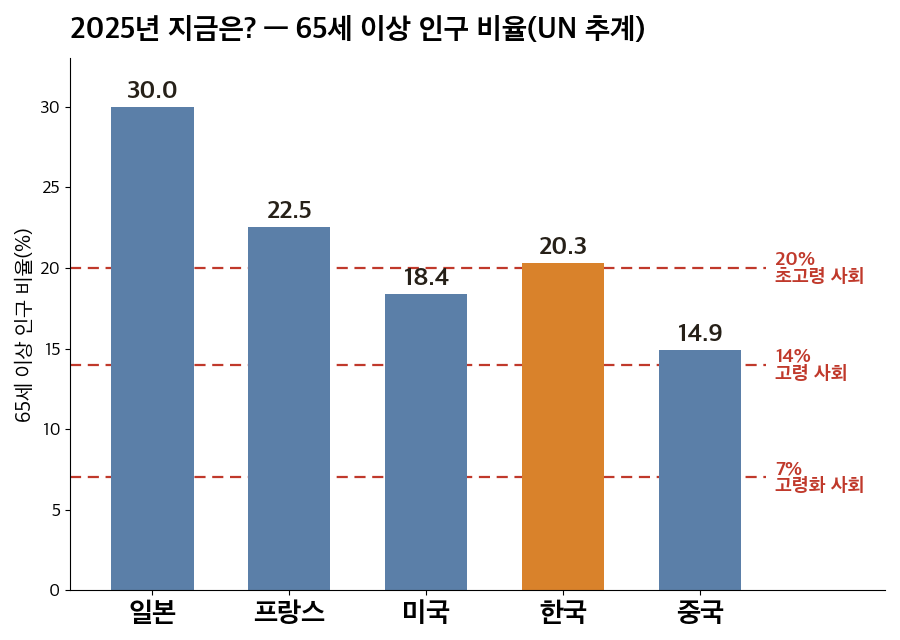
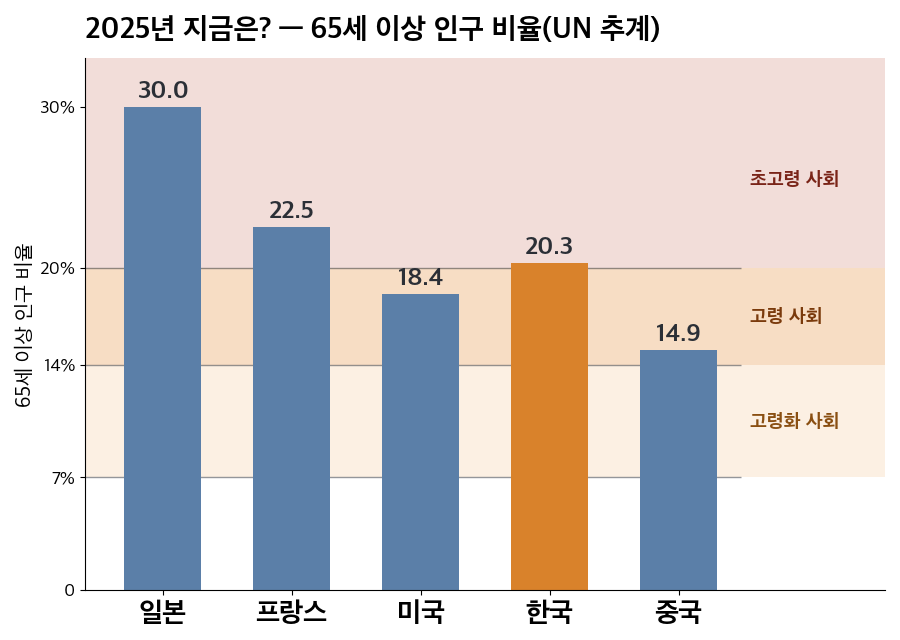
사회② 7-5: 아티팩트 댓글 반영 — 연령 구성 2단 도식·입담 삽화+그래프 색 맞춤·단계 고르기 «좁게»·3단계 프랑스 연금 개혁 해설+2023 파리 사진·4단계 질문 합침 · worksheet-gen opt-in «좁게»(블록 안 CSS, 사회 7-3·역사 4-3-2 출력 불변) · 메인 🔴0·역사 🔴0 · data-id·answer·label 불변
Claude-Session: https://claude.ai/code/session_0112jfuNjXUAgEuhZG5Yg8vB

diff --git a/worksheets/7-5차시_선진국의인구문제_개념편.html b/worksheets/7-5차시_선진국의인구문제_개념편.html
@@ -1171,7 +1171,7 @@ table:has(.ox-group) td:first-child { width: 46px; text-align: center; color: #6
 <figure class="ws-fig"><a class="ws-fig-zoom" href="images/7-5_card_cover_v2.png" target="_blank" rel="noopener" title="눌러서 크게 보기"><img src="images/7-5_card_cover_v2.png" alt="먼저 위 칸에 내 답을 쓰고, 그다음 넘겨 보자" loading="lazy"></a><figcaption>먼저 위 칸에 내 답을 쓰고, 그다음 넘겨 보자</figcaption></figure>
 </section><section class="ws-sw-pane" data-i="1" hidden><h3 class="ws-sw-h">열 명 가운데 셋 가까이</h3>
 <figure class="ws-fig"><a class="ws-fig-zoom" href="images/7-5_card_296_v2.png" target="_blank" rel="noopener" title="눌러서 크게 보기"><img src="images/7-5_card_296_v2.png" alt="일본 홋카이도 삿포로의 거리 — 지팡이를 짚은 노인(2026년 9월, 일본 65세 이상 29.6%)" loading="lazy"></a><figcaption>일본 홋카이도 삿포로의 거리 — 지팡이를 짚은 노인(2026년 9월, 일본 65세 이상 29.6%)</figcaption></figure>
-<p>교과서는 2015년 일본의 65세 이상 인구가 '네 명 가운데 한 명'이라고 적었다. 2026년 9월에는 그 비율이 29.6%까지 올랐다. 가게 진열대도 바뀌었다 — 일본에서는 2012년 무렵 어른용 기저귀가 아기용 기저귀보다 더 많이 팔리기 시작했다.</p>
+<p>교과서는 2015년 일본의 65세 이상 인구가 '네 명 가운데 한 명'이라고 적었다. 일본 정부(총무성) 집계로는 2026년 9월에 그 비율이 29.6%까지 올랐다. 가게 진열대도 바뀌었다 — 일본에서는 2012년 무렵 어른용 기저귀가 아기용 기저귀보다 더 많이 팔리기 시작했다.</p>
 </section><section class="ws-sw-pane" data-i="2" hidden><h3 class="ws-sw-h">트럭은 어디를 돌까</h3>
 <figure class="ws-fig"><a class="ws-fig-zoom" href="images/7-5_map_niigata_v2.png" target="_blank" rel="noopener" title="눌러서 크게 보기"><img src="images/7-5_map_niigata_v2.png" alt="니가타현 미나미우오누마의 산골 마을" loading="lazy"></a><figcaption>니가타현 미나미우오누마의 산골 마을</figcaption></figure>
 <blockquote>🎙 표지 사진의 트럭은 니가타현 산골에서 평일마다 마을 열아홉 곳을 돌아. 가장 가까운 가게까지 차로 가야 하는데 운전을 그만둔 노인이 많으니, 가게가 사람을 찾아가는 거야.</blockquote>
@@ -1188,13 +1188,19 @@ table:has(.ox-group) td:first-child { width: 46px; text-align: center; color: #6
 <figure class="ws-fig"><a class="ws-fig-zoom" href="images/7-5_fig_support.png" target="_blank" rel="noopener" title="눌러서 크게 보기"><img src="images/7-5_fig_support.png" alt="노인 한 명을 받치는 일하는 나이(15~64세) 사람 수 — 일본·한국, 1990년과 2025년" loading="lazy"></a><figcaption>노인 한 명을 받치는 일하는 나이(15~64세) 사람 수 — 일본·한국, 1990년과 2025년</figcaption></figure>
 </div></div>
 <br>
+<div class="ws-2c c2-mid" style="grid-template-columns:minmax(0,1.0fr) minmax(0,1.1fr)"><div class="c2-a">
 <div class="ws-read"><div class="ws-read-tag">읽고 넘어가는 곳</div><p>Ⅴ단원에서 일할 뜻과 능력이 있는 사람을 '경제 활동 인구'라고 배웠다. 저출산·고령화는 이 '일하는 사람'의 몫은 줄이고 '돌봄을 받는 사람'의 몫은 늘린다.</p><p>그래서 같은 나라 안에서 일하는 한 사람이 돌봐야 할 사람이 점점 많아진다.</p></div>
+</div><div class="c2-b">
+<figure class="ws-fig"><a class="ws-fig-zoom" href="images/7-5_fig_agemix.png" target="_blank" rel="noopener" title="눌러서 크게 보기"><img src="images/7-5_fig_agemix.png" alt="일할 나이(15~64세) 사람의 몫 — 일본·한국, 그 몫이 가장 컸던 해와 2025년 (세계은행 자료 · 2025년은 UN 추계)" loading="lazy"></a><figcaption>일할 나이(15~64세) 사람의 몫 — 일본·한국, 그 몫이 가장 컸던 해와 2025년 (세계은행 자료 · 2025년은 UN 추계)</figcaption></figure>
+</div></div>
 <br>
 <figure class="ws-fig"><a class="ws-fig-zoom" href="images/7-5_graph_stages.png" target="_blank" rel="noopener" title="눌러서 크게 보기"><img src="images/7-5_graph_stages.png" alt="고령화의 세 단계 — 65세 이상 인구가 전체의 7% 이상이면 고령화 사회, 14% 이상이면 고령 사회, 20% 이상이면 초고령 사회다 (교과서 136쪽 날개)" loading="lazy"></a><figcaption>고령화의 세 단계 — 65세 이상 인구가 전체의 7% 이상이면 고령화 사회, 14% 이상이면 고령 사회, 20% 이상이면 초고령 사회다 (교과서 136쪽 날개)</figcaption></figure>
 <br>
-<div class="ws-pick" id="pk44"><div class="pk-head"><span>교과서 136쪽 그래프의 2015년 값이다. 위 기준으로 각 나라가 어느 단계였는지 골라 보자.</span><b class="pk-count">0 / 5</b></div><div class="pk-grid pk-gold"><div class="pk-card pk-noimg" data-i="0" data-ans="초고령 사회"><div class="pk-name">일본</div><div class="pk-sit">65세 이상 26.3%</div><div class="pk-btns pk-btns-col"><button type="button" class="pk-b" data-v="고령화 사회">고령화 사회</button><button type="button" class="pk-b" data-v="고령 사회">고령 사회</button><button type="button" class="pk-b" data-v="초고령 사회">초고령 사회</button></div><div class="pk-why" hidden>20%를 넘었다 — 세계에서 가장 먼저 이 단계에 들어선 나라다</div></div><div class="pk-card pk-noimg" data-i="1" data-ans="고령 사회"><div class="pk-name">프랑스</div><div class="pk-sit">65세 이상 19.1%</div><div class="pk-btns pk-btns-col"><button type="button" class="pk-b" data-v="고령화 사회">고령화 사회</button><button type="button" class="pk-b" data-v="고령 사회">고령 사회</button><button type="button" class="pk-b" data-v="초고령 사회">초고령 사회</button></div><div class="pk-why" hidden>14% 이상, 20% 미만이다</div></div><div class="pk-card pk-noimg" data-i="2" data-ans="고령 사회"><div class="pk-name">미국</div><div class="pk-sit">65세 이상 14.8%</div><div class="pk-btns pk-btns-col"><button type="button" class="pk-b" data-v="고령화 사회">고령화 사회</button><button type="button" class="pk-b" data-v="고령 사회">고령 사회</button><button type="button" class="pk-b" data-v="초고령 사회">초고령 사회</button></div><div class="pk-why" hidden>14%를 막 넘었다</div></div><div class="pk-card pk-noimg" data-i="3" data-ans="고령화 사회"><div class="pk-name">한국</div><div class="pk-sit">65세 이상 13.1%</div><div class="pk-btns pk-btns-col"><button type="button" class="pk-b" data-v="고령화 사회">고령화 사회</button><button type="button" class="pk-b" data-v="고령 사회">고령 사회</button><button type="button" class="pk-b" data-v="초고령 사회">초고령 사회</button></div><div class="pk-why" hidden>7% 이상, 14% 미만이다</div></div><div class="pk-card pk-noimg" data-i="4" data-ans="고령화 사회"><div class="pk-name">중국</div><div class="pk-sit">65세 이상 9.6%</div><div class="pk-btns pk-btns-col"><button type="button" class="pk-b" data-v="고령화 사회">고령화 사회</button><button type="button" class="pk-b" data-v="고령 사회">고령 사회</button><button type="button" class="pk-b" data-v="초고령 사회">초고령 사회</button></div><div class="pk-why" hidden>7% 이상, 14% 미만이다</div></div></div><div class="pk-result" hidden></div></div><script>(function(){var w=document.getElementById("pk44");var cs=[].slice.call(w.querySelectorAll(".pk-card")),N=cs.length;var OPTS=["고령화 사회", "고령 사회", "초고령 사회"],MOOD=false,OPEN=false;function done(){return cs.filter(function(c){return c.dataset.pick}).length}function reveal(){var ok=0;cs.forEach(function(c){var right=c.dataset.pick===c.dataset.ans;if(right)ok++;c.classList.add(right?"pk-ok":"pk-no");if(!right&&MOOD){c.classList.remove("pk-happy","pk-sad");c.classList.add(c.dataset.ans==="웃음"?"pk-happy":"pk-sad");}if(!right||OPEN)c.querySelector(".pk-why").hidden=false;if(right&&!OPEN&&!c.dataset.tap){c.dataset.tap=1;c.classList.add("pk-tap");c.addEventListener("click",function(e){if(e.target.closest&&e.target.closest(".pk-b"))return;var y=c.querySelector(".pk-why");y.hidden=!y.hidden;});}});var r=w.querySelector(".pk-result");r.hidden=false;r.innerHTML="<b>"+ok+" / "+N+"</b> 맞혔어. "+(OPEN?"모든 카드의 이유가 펼쳐졌어 — 틀린 카드부터 보자.":"틀린 카드는 이유가 먼저 펼쳐졌어 — 거기부터 보자. 맞힌 카드도 누르면 이유가 열려.")+"<div class='pk-sum'>"+OPTS.map(function(o,oi){var head=MOOD?(o==="웃음"?"웃는 사람":"우는 사람"):o;var cls=MOOD?(o==="웃음"?"pk-up":"pk-down"):("pk-c"+oi);return "<div class='pk-col "+cls+"'><b>"+head+"</b>"+cs.filter(function(c){return c.dataset.ans===o}).map(function(c){return "<span>"+c.querySelector(".pk-name").textContent+"</span>"}).join("")+"</div>"}).join("")+"</div>";r.scrollIntoView({block:"nearest",behavior:"smooth"});}cs.forEach(function(c){c.querySelectorAll(".pk-b").forEach(function(b){b.addEventListener("click",function(){if(w.classList.contains("pk-done"))return;c.dataset.pick=b.dataset.v;c.classList.add("pk-set");if(MOOD){c.classList.remove("pk-happy","pk-sad");c.classList.add(b.dataset.v==="웃음"?"pk-happy":"pk-sad");}c.querySelectorAll(".pk-b").forEach(function(x){x.classList.toggle("on",x===b)});w.querySelector(".pk-count").textContent=done()+" / "+N;if(done()===N){w.classList.add("pk-done");reveal();}});});});})();</script>
+<style>/* 2026-10-26 사회 7-5 «좁게» — 그림 없는 짧은 카드. 데스크톱은 한 줄에 다 놓고, 폰은 «이름·값 | 버튼» 한 줄씩 */ .pk-grid.pk-tight { grid-template-columns: repeat(auto-fit, minmax(118px, 1fr)); gap: 8px; } .pk-tight .pk-card { padding: 8px 6px; } .pk-tight .pk-sit { min-height: 0; margin: 2px 0 7px; } .pk-tight .pk-b { padding: 5px 1px; word-break: keep-all; line-height: 1.25; font-size: .74em; } .pk-tight .pk-btns { gap: 3px; } @media (max-width: 640px) {   .pk-grid.pk-tight { grid-template-columns: 1fr; gap: 6px; }   .pk-tight .pk-card { display: grid; grid-template-columns: minmax(0, 1fr) minmax(0, 1.25fr); column-gap: 10px; align-items: center; text-align: left; padding: 7px 10px; }   .pk-tight .pk-name, .pk-tight .pk-sit { grid-column: 1; margin: 0; }   .pk-tight .pk-btns { grid-column: 2; grid-row: 1 / span 2; }   .pk-tight .pk-why { grid-column: 1 / -1; } }</style>
+<div class="ws-pick" id="pk48"><div class="pk-head"><span>교과서 136쪽 그래프의 2015년 값이다. 위 기준으로 각 나라가 어느 단계였는지 골라 보자.</span><b class="pk-count">0 / 5</b></div><div class="pk-grid pk-tight"><div class="pk-card pk-noimg" data-i="0" data-ans="초고령 사회"><div class="pk-name">일본</div><div class="pk-sit">65세 이상 26.3%</div><div class="pk-btns"><button type="button" class="pk-b" data-v="고령화 사회">고령화 사회</button><button type="button" class="pk-b" data-v="고령 사회">고령 사회</button><button type="button" class="pk-b" data-v="초고령 사회">초고령 사회</button></div><div class="pk-why" hidden>20%를 넘었다 — 세계에서 가장 먼저 이 단계에 들어선 나라다</div></div><div class="pk-card pk-noimg" data-i="1" data-ans="고령 사회"><div class="pk-name">프랑스</div><div class="pk-sit">65세 이상 19.1%</div><div class="pk-btns"><button type="button" class="pk-b" data-v="고령화 사회">고령화 사회</button><button type="button" class="pk-b" data-v="고령 사회">고령 사회</button><button type="button" class="pk-b" data-v="초고령 사회">초고령 사회</button></div><div class="pk-why" hidden>14% 이상, 20% 미만이다</div></div><div class="pk-card pk-noimg" data-i="2" data-ans="고령 사회"><div class="pk-name">미국</div><div class="pk-sit">65세 이상 14.8%</div><div class="pk-btns"><button type="button" class="pk-b" data-v="고령화 사회">고령화 사회</button><button type="button" class="pk-b" data-v="고령 사회">고령 사회</button><button type="button" class="pk-b" data-v="초고령 사회">초고령 사회</button></div><div class="pk-why" hidden>14%를 막 넘었다</div></div><div class="pk-card pk-noimg" data-i="3" data-ans="고령화 사회"><div class="pk-name">한국</div><div class="pk-sit">65세 이상 13.1%</div><div class="pk-btns"><button type="button" class="pk-b" data-v="고령화 사회">고령화 사회</button><button type="button" class="pk-b" data-v="고령 사회">고령 사회</button><button type="button" class="pk-b" data-v="초고령 사회">초고령 사회</button></div><div class="pk-why" hidden>7% 이상, 14% 미만이다</div></div><div class="pk-card pk-noimg" data-i="4" data-ans="고령화 사회"><div class="pk-name">중국</div><div class="pk-sit">65세 이상 9.6%</div><div class="pk-btns"><button type="button" class="pk-b" data-v="고령화 사회">고령화 사회</button><button type="button" class="pk-b" data-v="고령 사회">고령 사회</button><button type="button" class="pk-b" data-v="초고령 사회">초고령 사회</button></div><div class="pk-why" hidden>7% 이상, 14% 미만이다</div></div></div><div class="pk-result" hidden></div></div><script>(function(){var w=document.getElementById("pk48");var cs=[].slice.call(w.querySelectorAll(".pk-card")),N=cs.length;var OPTS=["고령화 사회", "고령 사회", "초고령 사회"],MOOD=false,OPEN=false;function done(){return cs.filter(function(c){return c.dataset.pick}).length}function reveal(){var ok=0;cs.forEach(function(c){var right=c.dataset.pick===c.dataset.ans;if(right)ok++;c.classList.add(right?"pk-ok":"pk-no");if(!right&&MOOD){c.classList.remove("pk-happy","pk-sad");c.classList.add(c.dataset.ans==="웃음"?"pk-happy":"pk-sad");}if(!right||OPEN)c.querySelector(".pk-why").hidden=false;if(right&&!OPEN&&!c.dataset.tap){c.dataset.tap=1;c.classList.add("pk-tap");c.addEventListener("click",function(e){if(e.target.closest&&e.target.closest(".pk-b"))return;var y=c.querySelector(".pk-why");y.hidden=!y.hidden;});}});var r=w.querySelector(".pk-result");r.hidden=false;r.innerHTML="<b>"+ok+" / "+N+"</b> 맞혔어. "+(OPEN?"모든 카드의 이유가 펼쳐졌어 — 틀린 카드부터 보자.":"틀린 카드는 이유가 먼저 펼쳐졌어 — 거기부터 보자. 맞힌 카드도 누르면 이유가 열려.")+"<div class='pk-sum'>"+OPTS.map(function(o,oi){var head=MOOD?(o==="웃음"?"웃는 사람":"우는 사람"):o;var cls=MOOD?(o==="웃음"?"pk-up":"pk-down"):("pk-c"+oi);return "<div class='pk-col "+cls+"'><b>"+head+"</b>"+cs.filter(function(c){return c.dataset.ans===o}).map(function(c){return "<span>"+c.querySelector(".pk-name").textContent+"</span>"}).join("")+"</div>"}).join("")+"</div>";r.scrollIntoView({block:"nearest",behavior:"smooth"});}cs.forEach(function(c){c.querySelectorAll(".pk-b").forEach(function(b){b.addEventListener("click",function(){if(w.classList.contains("pk-done"))return;c.dataset.pick=b.dataset.v;c.classList.add("pk-set");if(MOOD){c.classList.remove("pk-happy","pk-sad");c.classList.add(b.dataset.v==="웃음"?"pk-happy":"pk-sad");}c.querySelectorAll(".pk-b").forEach(function(x){x.classList.toggle("on",x===b)});w.querySelector(".pk-count").textContent=done()+" / "+N;if(done()===N){w.classList.add("pk-done");reveal();}});});});})();</script>
 <br>
-<div class="ws-2c c2-mid" style="grid-template-columns:minmax(0,1.0fr) minmax(0,1.25fr)"><div class="c2-a">
+<div class="ws-2c c2-mid" style="grid-template-columns:minmax(0,1.0fr) minmax(0,1.0fr)"><div class="c2-a">
+<figure class="ws-fig"><a class="ws-fig-zoom" href="images/7-5_입담_두단계.png" target="_blank" rel="noopener" title="눌러서 크게 보기"><img src="images/7-5_입담_두단계.png" alt="다섯 명 가운데 한 명이 65세 이상 — 한국은 9년 만에 두 단계를 올라갔다" loading="lazy"></a><figcaption>다섯 명 가운데 한 명이 65세 이상 — 한국은 9년 만에 두 단계를 올라갔다</figcaption></figure>
 <blockquote>🎙 2015년의 한국은 맨 아래 단계였어. 그런데 2024년 12월, 우리나라의 65세 이상 인구가 20%를 넘었어. 2017년에 고령 사회를 거쳐, 9년 만에 두 단계를 올라가 초고령 사회가 된 거야. 이 이야기는 7-7에서 이어 간다.</blockquote>
 </div><div class="c2-b">
 <figure class="ws-fig"><a class="ws-fig-zoom" href="images/7-5_graph_aged.png" target="_blank" rel="noopener" title="눌러서 크게 보기"><img src="images/7-5_graph_aged.png" alt="2025년 지금은? — 65세 이상 인구 비율(UN 추계)" loading="lazy"></a><figcaption>2025년 지금은? — 65세 이상 인구 비율(UN 추계)</figcaption></figure>
@@ -1211,11 +1217,17 @@ table:has(.ox-group) td:first-child { width: 46px; text-align: center; color: #6
 <figure class="ws-fig"><a class="ws-fig-zoom" href="images/7-5_photo_forskola.jpg" target="_blank" rel="noopener" title="눌러서 크게 보기"><img src="images/7-5_photo_forskola.jpg" alt="스웨덴의 어린이집 — 공공 보육 시설을 늘리는 것도 대책의 하나다" loading="lazy"></a><figcaption>스웨덴의 어린이집 — 공공 보육 시설을 늘리는 것도 대책의 하나다</figcaption></figure>
 </div></div>
 <br>
+<div class="ws-2c c2-mid" style="grid-template-columns:minmax(0,1.1fr) minmax(0,1.0fr)"><div class="c2-a">
+<div class="ws-read"><div class="ws-read-tag">읽고 넘어가는 곳</div><p>대책에는 돈이 든다. 그 돈을 누가 얼마나 낼지를 두고 갈등이 생기기도 한다. 프랑스는 일하는 사람이 내는 돈으로 노인의 연금을 준다. 그런데 연금을 내는 사람은 줄고 받는 사람은 늘자, 2023년 연금을 받을 수 있는 나이를 62세에서 64세로 늦추는 법을 만들었다.</p><p>몇 달 동안 전국에서 큰 시위와 파업이 이어졌다. 결국 2025년 12월, 나이를 더 올리는 일정을 2028년 1월까지 멈추는 법이 통과됐다.</p></div>
+</div><div class="c2-b">
+<figure class="ws-fig"><a class="ws-fig-zoom" href="images/7-5_photo_paris2023.jpg" target="_blank" rel="noopener" title="눌러서 크게 보기"><img src="images/7-5_photo_paris2023.jpg" alt="2023년 3월 28일 프랑스 파리 레퓌블리크 광장 — 연금 받는 나이를 늦추는 법에 반대하는 행진" loading="lazy"></a><figcaption>2023년 3월 28일 프랑스 파리 레퓌블리크 광장 — 연금 받는 나이를 늦추는 법에 반대하는 행진</figcaption></figure>
+</div></div>
+<br>
 <blockquote>🎙 아기를 더 낳게 하려는 나라가 요즘에만 있었던 건 아니야. 2,000년 전 로마의 아우구스투스 황제는 결혼하지 않은 사람은 물려받을 재산을 제대로 받지 못하게 하고, 아이가 셋 이상인 사람에게는 관직에서 먼저 뽑는 혜택을 줬어. 그런데 그 뒤로 결혼과 출산이 크게 늘지는 않았대.</blockquote>
 <br>
 <div class="ws-tb"><div class="ws-tb-tag">📕 교과서 137쪽 · 스스로 탐구 「선진국의 출산율을 높이기 위한 정책」</div><div class="ws-tb-see">스웨덴과 프랑스의 합계 출산율 그래프와 저출산 대책 표를 보자.</div><div class="ws-tb-ask">두 나라 저출산 대책의 공통된 특징을 한 문장으로 적자. <input type="text" class="blank-input activity-input no-score" data-id="act-2" data-label="교과서 137쪽에서 찾기 — 두 나라 저출산 대책의 공통된 특징을 한 문장으로 적자." style="width:360px" placeholder=""></div></div>
 <br>
-<div class="ws-sw sw-news" id="sw67" data-cur="0"><div class="ws-sw-head">📰 다 채운 뒤에 넘겨 보자 — 교과서 그 뒤, 두 나라의 출산율</div><div class="ws-sw-tabs" role="tablist"><button type="button" role="tab" class="ws-sw-tab on" onclick="swGo('sw67',0)" aria-label="교과서 그 뒤 — 다시 내려갔다">1</button><button type="button" role="tab" class="ws-sw-tab" onclick="swGo('sw67',1)" aria-label="왜 2명이 아니라 2.1명일까">2</button><button type="button" role="tab" class="ws-sw-tab" onclick="swGo('sw67',2)" aria-label="정책은 소용없었을까?">3</button></div><div class="ws-sw-stage">
+<div class="ws-sw sw-news" id="sw79" data-cur="0"><div class="ws-sw-head">📰 다 채운 뒤에 넘겨 보자 — 교과서 그 뒤, 두 나라의 출산율</div><div class="ws-sw-tabs" role="tablist"><button type="button" role="tab" class="ws-sw-tab on" onclick="swGo('sw79',0)" aria-label="교과서 그 뒤 — 다시 내려갔다">1</button><button type="button" role="tab" class="ws-sw-tab" onclick="swGo('sw79',1)" aria-label="왜 2명이 아니라 2.1명일까">2</button><button type="button" role="tab" class="ws-sw-tab" onclick="swGo('sw79',2)" aria-label="정책은 소용없었을까?">3</button></div><div class="ws-sw-stage">
 <section class="ws-sw-pane" data-i="0"><h3 class="ws-sw-h">교과서 그 뒤 — 다시 내려갔다</h3>
 <figure class="ws-fig"><a class="ws-fig-zoom" href="images/7-5_graph_tfr.png" target="_blank" rel="noopener" title="눌러서 크게 보기"><img src="images/7-5_graph_tfr.png" alt="프랑스·스웨덴 합계 출산율 1990~2024년" loading="lazy"></a><figcaption>프랑스·스웨덴 합계 출산율 1990~2024년</figcaption></figure>
 <p>합계 출산율은 여성 한 명이 평생 낳을 것으로 예상되는 아이 수다. 교과서 그래프에서 두 나라는 2015년 무렵 2명 가까이 올랐지만, 지금은 프랑스 1.56명(2025년), 스웨덴 1.43명(2024년)이다.</p>
@@ -1226,20 +1238,18 @@ table:has(.ox-group) td:first-child { width: 46px; text-align: center; color: #6
 <figure class="ws-fig"><a class="ws-fig-zoom" href="images/7-5_card_policy_v2.png" target="_blank" rel="noopener" title="눌러서 크게 보기"><img src="images/7-5_card_policy_v2.png" alt="스웨덴 말뫼 — 유모차를 미는 아빠" loading="lazy"></a><figcaption>스웨덴 말뫼 — 유모차를 미는 아빠</figcaption></figure>
 <blockquote>🎙 교과서가 '정책 덕분에 올랐다'고 소개한 두 나라도 다시 내려갔어. 스웨덴은 2025년에 1.42명으로 더 내려가, 기록이 시작된 뒤 가장 낮아. 그럼 정책은 소용이 없었던 걸까, 아니면 정책만으로는 모자란 걸까? 마지막 칸에서 네 생각을 들어 볼게.</blockquote>
 <p>스웨덴은 이번이 처음도 아니다. 1980년대 출산과 육아를 돕는 정책을 넓힌 뒤 1990년에는 합계 출산율이 2.13명까지 올라 아기가 12만 4천 명 태어났다. 그런데 1990년대 경기가 나빠지자 1999년에는 1.50명, 8만 8천 명으로 내려갔다.</p>
-</section></div><div class="ws-sw-nav"><button type="button" onclick="swStep('sw67',-1)">‹ 이전</button><span class="ws-sw-count"><b>1</b> / 3</span><button type="button" onclick="swStep('sw67',1)">다음 ›</button></div></div><script>(function(){if(!window.swGo){window.swGo=function(id,i){var g=document.getElementById(id);if(!g)return;var ps=g.querySelectorAll(".ws-sw-pane"),n=ps.length;i=((i%n)+n)%n;ps.forEach(function(e){e.hidden=(+e.dataset.i!==i);});g.querySelectorAll(".ws-sw-tab").forEach(function(e,k){e.classList.toggle("on",k===i);e.setAttribute("aria-selected",k===i);});var c=g.querySelector(".ws-sw-count b");if(c)c.textContent=i+1;g.dataset.cur=i;};window.swStep=function(id,d){var g=document.getElementById(id);if(g)swGo(id,(+(g.dataset.cur||0))+d);};}var g=document.getElementById("sw67"),x0=null,y0=null;if(!g)return;g.querySelector(".ws-sw-stage").addEventListener("touchstart",function(e){x0=e.touches[0].clientX;y0=e.touches[0].clientY;},{passive:true});g.querySelector(".ws-sw-stage").addEventListener("touchend",function(e){if(x0===null)return;var dx=e.changedTouches[0].clientX-x0,dy=e.changedTouches[0].clientY-y0;x0=null;if(Math.abs(dx)>60&&Math.abs(dx)>1.5*Math.abs(dy)){var t=e.target;if(t.closest&&t.closest("input,textarea,.ws-vcd-track,.ws-mb,.ws-gal,.pk-swipe"))return;swStep("sw67",dx<0?1:-1);g.scrollIntoView({block:"start",behavior:"smooth"});}},{passive:true});})();</script>
+</section></div><div class="ws-sw-nav"><button type="button" onclick="swStep('sw79',-1)">‹ 이전</button><span class="ws-sw-count"><b>1</b> / 3</span><button type="button" onclick="swStep('sw79',1)">다음 ›</button></div></div><script>(function(){if(!window.swGo){window.swGo=function(id,i){var g=document.getElementById(id);if(!g)return;var ps=g.querySelectorAll(".ws-sw-pane"),n=ps.length;i=((i%n)+n)%n;ps.forEach(function(e){e.hidden=(+e.dataset.i!==i);});g.querySelectorAll(".ws-sw-tab").forEach(function(e,k){e.classList.toggle("on",k===i);e.setAttribute("aria-selected",k===i);});var c=g.querySelector(".ws-sw-count b");if(c)c.textContent=i+1;g.dataset.cur=i;};window.swStep=function(id,d){var g=document.getElementById(id);if(g)swGo(id,(+(g.dataset.cur||0))+d);};}var g=document.getElementById("sw79"),x0=null,y0=null;if(!g)return;g.querySelector(".ws-sw-stage").addEventListener("touchstart",function(e){x0=e.touches[0].clientX;y0=e.touches[0].clientY;},{passive:true});g.querySelector(".ws-sw-stage").addEventListener("touchend",function(e){if(x0===null)return;var dx=e.changedTouches[0].clientX-x0,dy=e.changedTouches[0].clientY-y0;x0=null;if(Math.abs(dx)>60&&Math.abs(dx)>1.5*Math.abs(dy)){var t=e.target;if(t.closest&&t.closest("input,textarea,.ws-vcd-track,.ws-mb,.ws-gal,.pk-swipe"))return;swStep("sw79",dx<0?1:-1);g.scrollIntoView({block:"start",behavior:"smooth"});}},{passive:true});})();</script>
 <br>
-<div class="ws-pick" id="pk80"><div class="pk-head"><span>이 숫자는 어떻게 만든 숫자일까? 사람·물건을 하나하나 센 숫자(몇 명·몇 개)이면 '센 수', 전체나 넓이·사람 수로 나눠 견준 숫자(몇 %·○○당)이면 '견준 값'을 고르자. 다 고르면 정답이 나오고, 틀린 카드는 까닭이 먼저 펼쳐진다.</span><b class="pk-count">0 / 5</b></div><div class="pk-grid pk-gold"><div class="pk-card pk-noimg" data-i="0" data-ans="견준 값"><div class="pk-name">일본 65세 이상 29.6%</div><div class="pk-sit">2026년 9월 일본 사람 가운데 65세 이상</div><div class="pk-btns"><button type="button" class="pk-b" data-v="센 수">센 수</button><button type="button" class="pk-b" data-v="견준 값">견준 값</button></div><div class="pk-why" hidden>전체 인구를 100으로 놓고 견준 값이다</div></div><div class="pk-card pk-noimg" data-i="1" data-ans="센 수"><div class="pk-name">이동 슈퍼마켓 100여 대</div><div class="pk-sit">일본 전국을 도는 이동 슈퍼마켓 트럭</div><div class="pk-btns"><button type="button" class="pk-b" data-v="센 수">센 수</button><button type="button" class="pk-b" data-v="견준 값">견준 값</button></div><div class="pk-why" hidden>트럭 수를 그대로 센 값이다</div></div><div class="pk-card pk-noimg" data-i="2" data-ans="견준 값"><div class="pk-name">스웨덴 1.43명</div><div class="pk-sit">2024년 스웨덴의 합계 출산율</div><div class="pk-btns"><button type="button" class="pk-b" data-v="센 수">센 수</button><button type="button" class="pk-b" data-v="견준 값">견준 값</button></div><div class="pk-why" hidden>'명'으로 끝나도 스웨덴에서 태어난 아이 수가 아니라, 여성 1명이 평생 낳을 것으로 예상되는 아이 수다 — 여성 1명에 견준 값이다</div></div><div class="pk-card pk-noimg" data-i="3" data-ans="센 수"><div class="pk-name">마을 열아홉 곳</div><div class="pk-sit">니가타현 산골에서 트럭 한 대가 도는 마을</div><div class="pk-btns"><button type="button" class="pk-b" data-v="센 수">센 수</button><button type="button" class="pk-b" data-v="견준 값">견준 값</button></div><div class="pk-why" hidden>마을 수를 그대로 센 값이다</div></div><div class="pk-card pk-noimg" data-i="4" data-ans="견준 값"><div class="pk-name">고령 사회 14%</div><div class="pk-sit">65세 이상 인구가 전체의 14% 이상이면</div><div class="pk-btns"><button type="button" class="pk-b" data-v="센 수">센 수</button><button type="button" class="pk-b" data-v="견준 값">견준 값</button></div><div class="pk-why" hidden>전체 인구에 견준 기준이다</div></div></div><div class="pk-result" hidden></div></div><script>(function(){var w=document.getElementById("pk80");var cs=[].slice.call(w.querySelectorAll(".pk-card")),N=cs.length;var OPTS=["센 수", "견준 값"],MOOD=false,OPEN=false;function done(){return cs.filter(function(c){return c.dataset.pick}).length}function reveal(){var ok=0;cs.forEach(function(c){var right=c.dataset.pick===c.dataset.ans;if(right)ok++;c.classList.add(right?"pk-ok":"pk-no");if(!right&&MOOD){c.classList.remove("pk-happy","pk-sad");c.classList.add(c.dataset.ans==="웃음"?"pk-happy":"pk-sad");}if(!right||OPEN)c.querySelector(".pk-why").hidden=false;if(right&&!OPEN&&!c.dataset.tap){c.dataset.tap=1;c.classList.add("pk-tap");c.addEventListener("click",function(e){if(e.target.closest&&e.target.closest(".pk-b"))return;var y=c.querySelector(".pk-why");y.hidden=!y.hidden;});}});var r=w.querySelector(".pk-result");r.hidden=false;r.innerHTML="<b>"+ok+" / "+N+"</b> 맞혔어. "+(OPEN?"모든 카드의 이유가 펼쳐졌어 — 틀린 카드부터 보자.":"틀린 카드는 이유가 먼저 펼쳐졌어 — 거기부터 보자. 맞힌 카드도 누르면 이유가 열려.")+"<div class='pk-sum'>"+OPTS.map(function(o,oi){var head=MOOD?(o==="웃음"?"웃는 사람":"우는 사람"):o;var cls=MOOD?(o==="웃음"?"pk-up":"pk-down"):("pk-c"+oi);return "<div class='pk-col "+cls+"'><b>"+head+"</b>"+cs.filter(function(c){return c.dataset.ans===o}).map(function(c){return "<span>"+c.querySelector(".pk-name").textContent+"</span>"}).join("")+"</div>"}).join("")+"</div>";r.scrollIntoView({block:"nearest",behavior:"smooth"});}cs.forEach(function(c){c.querySelectorAll(".pk-b").forEach(function(b){b.addEventListener("click",function(){if(w.classList.contains("pk-done"))return;c.dataset.pick=b.dataset.v;c.classList.add("pk-set");if(MOOD){c.classList.remove("pk-happy","pk-sad");c.classList.add(b.dataset.v==="웃음"?"pk-happy":"pk-sad");}c.querySelectorAll(".pk-b").forEach(function(x){x.classList.toggle("on",x===b)});w.querySelector(".pk-count").textContent=done()+" / "+N;if(done()===N){w.classList.add("pk-done");reveal();}});});});})();</script>
+<div class="ws-pick" id="pk92"><div class="pk-head"><span>이 숫자는 어떻게 만든 숫자일까? 사람·물건을 하나하나 센 숫자(몇 명·몇 개)이면 '센 수', 전체나 넓이·사람 수로 나눠 견준 숫자(몇 %·○○당)이면 '견준 값'을 고르자. 다 고르면 정답이 나오고, 틀린 카드는 까닭이 먼저 펼쳐진다.</span><b class="pk-count">0 / 5</b></div><div class="pk-grid pk-gold"><div class="pk-card pk-noimg" data-i="0" data-ans="견준 값"><div class="pk-name">일본 65세 이상 29.6%</div><div class="pk-sit">2026년 9월 일본 사람 가운데 65세 이상</div><div class="pk-btns"><button type="button" class="pk-b" data-v="센 수">센 수</button><button type="button" class="pk-b" data-v="견준 값">견준 값</button></div><div class="pk-why" hidden>전체 인구를 100으로 놓고 견준 값이다</div></div><div class="pk-card pk-noimg" data-i="1" data-ans="센 수"><div class="pk-name">이동 슈퍼마켓 100여 대</div><div class="pk-sit">일본 전국을 도는 이동 슈퍼마켓 트럭</div><div class="pk-btns"><button type="button" class="pk-b" data-v="센 수">센 수</button><button type="button" class="pk-b" data-v="견준 값">견준 값</button></div><div class="pk-why" hidden>트럭 수를 그대로 센 값이다</div></div><div class="pk-card pk-noimg" data-i="2" data-ans="견준 값"><div class="pk-name">스웨덴 1.43명</div><div class="pk-sit">2024년 스웨덴의 합계 출산율</div><div class="pk-btns"><button type="button" class="pk-b" data-v="센 수">센 수</button><button type="button" class="pk-b" data-v="견준 값">견준 값</button></div><div class="pk-why" hidden>'명'으로 끝나도 스웨덴에서 태어난 아이 수가 아니라, 여성 1명이 평생 낳을 것으로 예상되는 아이 수다 — 여성 1명에 견준 값이다</div></div><div class="pk-card pk-noimg" data-i="3" data-ans="센 수"><div class="pk-name">마을 열아홉 곳</div><div class="pk-sit">니가타현 산골에서 트럭 한 대가 도는 마을</div><div class="pk-btns"><button type="button" class="pk-b" data-v="센 수">센 수</button><button type="button" class="pk-b" data-v="견준 값">견준 값</button></div><div class="pk-why" hidden>마을 수를 그대로 센 값이다</div></div><div class="pk-card pk-noimg" data-i="4" data-ans="견준 값"><div class="pk-name">고령 사회 14%</div><div class="pk-sit">65세 이상 인구가 전체의 14% 이상이면</div><div class="pk-btns"><button type="button" class="pk-b" data-v="센 수">센 수</button><button type="button" class="pk-b" data-v="견준 값">견준 값</button></div><div class="pk-why" hidden>전체 인구에 견준 기준이다</div></div></div><div class="pk-result" hidden></div></div><script>(function(){var w=document.getElementById("pk92");var cs=[].slice.call(w.querySelectorAll(".pk-card")),N=cs.length;var OPTS=["센 수", "견준 값"],MOOD=false,OPEN=false;function done(){return cs.filter(function(c){return c.dataset.pick}).length}function reveal(){var ok=0;cs.forEach(function(c){var right=c.dataset.pick===c.dataset.ans;if(right)ok++;c.classList.add(right?"pk-ok":"pk-no");if(!right&&MOOD){c.classList.remove("pk-happy","pk-sad");c.classList.add(c.dataset.ans==="웃음"?"pk-happy":"pk-sad");}if(!right||OPEN)c.querySelector(".pk-why").hidden=false;if(right&&!OPEN&&!c.dataset.tap){c.dataset.tap=1;c.classList.add("pk-tap");c.addEventListener("click",function(e){if(e.target.closest&&e.target.closest(".pk-b"))return;var y=c.querySelector(".pk-why");y.hidden=!y.hidden;});}});var r=w.querySelector(".pk-result");r.hidden=false;r.innerHTML="<b>"+ok+" / "+N+"</b> 맞혔어. "+(OPEN?"모든 카드의 이유가 펼쳐졌어 — 틀린 카드부터 보자.":"틀린 카드는 이유가 먼저 펼쳐졌어 — 거기부터 보자. 맞힌 카드도 누르면 이유가 열려.")+"<div class='pk-sum'>"+OPTS.map(function(o,oi){var head=MOOD?(o==="웃음"?"웃는 사람":"우는 사람"):o;var cls=MOOD?(o==="웃음"?"pk-up":"pk-down"):("pk-c"+oi);return "<div class='pk-col "+cls+"'><b>"+head+"</b>"+cs.filter(function(c){return c.dataset.ans===o}).map(function(c){return "<span>"+c.querySelector(".pk-name").textContent+"</span>"}).join("")+"</div>"}).join("")+"</div>";r.scrollIntoView({block:"nearest",behavior:"smooth"});}cs.forEach(function(c){c.querySelectorAll(".pk-b").forEach(function(b){b.addEventListener("click",function(){if(w.classList.contains("pk-done"))return;c.dataset.pick=b.dataset.v;c.classList.add("pk-set");if(MOOD){c.classList.remove("pk-happy","pk-sad");c.classList.add(b.dataset.v==="웃음"?"pk-happy":"pk-sad");}c.querySelectorAll(".pk-b").forEach(function(x){x.classList.toggle("on",x===b)});w.querySelector(".pk-count").textContent=done()+" / "+N;if(done()===N){w.classList.add("pk-done");reveal();}});});});})();</script>
 <br>
 <blockquote>🎙 스웨덴 카드에서 헷갈렸지? 합계 출산율은 '명'으로 끝나지만 엄마 한 사람에 견준 평균이야. 숫자 뒤의 단위만 보지 말고 '무엇에 견준 값인가'를 물어보자.</blockquote>
 <br>
 <h2>📖 4단계: 노인이 노인을 돕는 집</h2>
 <blockquote>📕 <strong>교과서 137쪽 펴고 · 배정 시간 5분</strong></blockquote>
 <br>
-<div class="ws-tb"><div class="ws-tb-tag">📕 교과서 137쪽 · 사회 톡톡톡 「노후가 행복한 핀란드의 노인 공동체」</div><div class="ws-2c c2-mid ws-tb-2cin" style="grid-template-columns:minmax(0,1fr) minmax(0,1.05fr)"><div class="c2-a"><figure class="ws-tb-fig"><img src="images/7-5_map_helsinki_v2.png" alt="로푸키리가 있는 핀란드 헬싱키" loading="lazy"><figcaption>로푸키리가 있는 핀란드 헬싱키</figcaption></figure></div><div class="c2-b"><div class="ws-tb-ask">'로푸키리'는 핀란드어로 무슨 뜻이고, 누가 어떻게 세웠는지 적자. <input type="text" class="blank-input activity-input no-score" data-id="act-3" data-label="교과서 137쪽에서 찾기 — '로푸키리'는 핀란드어로 무슨 뜻이고, 누가 어떻게 세웠는지 적자." style="width:360px" placeholder=""></div></div></div></div>
+<div class="ws-tb"><div class="ws-tb-tag">📕 교과서 137쪽 · 사회 톡톡톡 「노후가 행복한 핀란드의 노인 공동체」</div><div class="ws-2c c2-mid ws-tb-2cin" style="grid-template-columns:minmax(0,1fr) minmax(0,1.05fr)"><div class="c2-a"><figure class="ws-tb-fig"><img src="images/7-5_map_helsinki_v2.png" alt="로푸키리가 있는 핀란드 헬싱키" loading="lazy"><figcaption>로푸키리가 있는 핀란드 헬싱키</figcaption></figure></div><div class="c2-b"><div class="ws-tb-see">1990년대에 경기가 나빠지자 핀란드 정부는 노인을 돌보는 예산을 크게 줄였다. 할머니 할아버지들은 손을 놓고 기다렸을까?</div><div class="ws-tb-ask">'로푸키리'는 핀란드어로 무슨 뜻이고, 누가 어떻게 세웠는지 적자. <input type="text" class="blank-input activity-input no-score" data-id="act-3" data-label="교과서 137쪽에서 찾기 — '로푸키리'는 핀란드어로 무슨 뜻이고, 누가 어떻게 세웠는지 적자." style="width:360px" placeholder=""></div></div></div></div>
 <br>
-<blockquote>🎙 1990년대에 경기가 나빠져 핀란드 정부가 노인을 돌보는 예산을 크게 줄였대. 할머니 할아버지들은 손을 놓고 기다렸을까? 교과서에서 찾아 위 칸에 적어 보자.</blockquote>
-<br>
-<div class="ws-sw sw-news" id="sw91" data-cur="0"><div class="ws-sw-head">📰 다 쓴 뒤에 넘겨 보자 — 노인이 노인을 돕는 집</div><div class="ws-sw-tabs" role="tablist"><button type="button" role="tab" class="ws-sw-tab on" onclick="swGo('sw91',0)" aria-label="먼저 위 칸부터">1</button><button type="button" role="tab" class="ws-sw-tab" onclick="swGo('sw91',1)" aria-label="기다리지 않고 직접 지었다">2</button><button type="button" role="tab" class="ws-sw-tab" onclick="swGo('sw91',2)" aria-label="평균 나이 70세의 '마지막 질주'">3</button></div><div class="ws-sw-stage">
+<div class="ws-sw sw-news" id="sw101" data-cur="0"><div class="ws-sw-head">📰 다 쓴 뒤에 넘겨 보자 — 노인이 노인을 돕는 집</div><div class="ws-sw-tabs" role="tablist"><button type="button" role="tab" class="ws-sw-tab on" onclick="swGo('sw101',0)" aria-label="먼저 위 칸부터">1</button><button type="button" role="tab" class="ws-sw-tab" onclick="swGo('sw101',1)" aria-label="기다리지 않고 직접 지었다">2</button><button type="button" role="tab" class="ws-sw-tab" onclick="swGo('sw101',2)" aria-label="평균 나이 70세의 '마지막 질주'">3</button></div><div class="ws-sw-stage">
 <section class="ws-sw-pane" data-i="0"><h3 class="ws-sw-h">먼저 위 칸부터</h3>
 <figure class="ws-fig"><a class="ws-fig-zoom" href="images/7-5_card_cover_v2.png" target="_blank" rel="noopener" title="눌러서 크게 보기"><img src="images/7-5_card_cover_v2.png" alt="먼저 위 칸에 내 답을 쓰고, 그다음 넘겨 보자" loading="lazy"></a><figcaption>먼저 위 칸에 내 답을 쓰고, 그다음 넘겨 보자</figcaption></figure>
 </section><section class="ws-sw-pane" data-i="1" hidden><h3 class="ws-sw-h">기다리지 않고 직접 지었다</h3>
@@ -1248,7 +1258,7 @@ table:has(.ox-group) td:first-child { width: 46px; text-align: center; color: #6
 </section><section class="ws-sw-pane" data-i="2" hidden><h3 class="ws-sw-h">평균 나이 70세의 '마지막 질주'</h3>
 <figure class="ws-fig"><a class="ws-fig-zoom" href="images/7-5_card_70_v2.png" target="_blank" rel="noopener" title="눌러서 크게 보기"><img src="images/7-5_card_70_v2.png" alt="헬싱키 로푸키리 — 발코니에 나와 함께 노래하는 주민들(2020년)" loading="lazy"></a><figcaption>헬싱키 로푸키리 — 발코니에 나와 함께 노래하는 주민들(2020년)</figcaption></figure>
 <p>청소와 빨래, 밥 짓기를 돌아가며 맡는다. 돌봄을 기다리는 대신 서로 돕고 의지하며 산다.</p>
-</section></div><div class="ws-sw-nav"><button type="button" onclick="swStep('sw91',-1)">‹ 이전</button><span class="ws-sw-count"><b>1</b> / 3</span><button type="button" onclick="swStep('sw91',1)">다음 ›</button></div></div><script>(function(){if(!window.swGo){window.swGo=function(id,i){var g=document.getElementById(id);if(!g)return;var ps=g.querySelectorAll(".ws-sw-pane"),n=ps.length;i=((i%n)+n)%n;ps.forEach(function(e){e.hidden=(+e.dataset.i!==i);});g.querySelectorAll(".ws-sw-tab").forEach(function(e,k){e.classList.toggle("on",k===i);e.setAttribute("aria-selected",k===i);});var c=g.querySelector(".ws-sw-count b");if(c)c.textContent=i+1;g.dataset.cur=i;};window.swStep=function(id,d){var g=document.getElementById(id);if(g)swGo(id,(+(g.dataset.cur||0))+d);};}var g=document.getElementById("sw91"),x0=null,y0=null;if(!g)return;g.querySelector(".ws-sw-stage").addEventListener("touchstart",function(e){x0=e.touches[0].clientX;y0=e.touches[0].clientY;},{passive:true});g.querySelector(".ws-sw-stage").addEventListener("touchend",function(e){if(x0===null)return;var dx=e.changedTouches[0].clientX-x0,dy=e.changedTouches[0].clientY-y0;x0=null;if(Math.abs(dx)>60&&Math.abs(dx)>1.5*Math.abs(dy)){var t=e.target;if(t.closest&&t.closest("input,textarea,.ws-vcd-track,.ws-mb,.ws-gal,.pk-swipe"))return;swStep("sw91",dx<0?1:-1);g.scrollIntoView({block:"start",behavior:"smooth"});}},{passive:true});})();</script>
+</section></div><div class="ws-sw-nav"><button type="button" onclick="swStep('sw101',-1)">‹ 이전</button><span class="ws-sw-count"><b>1</b> / 3</span><button type="button" onclick="swStep('sw101',1)">다음 ›</button></div></div><script>(function(){if(!window.swGo){window.swGo=function(id,i){var g=document.getElementById(id);if(!g)return;var ps=g.querySelectorAll(".ws-sw-pane"),n=ps.length;i=((i%n)+n)%n;ps.forEach(function(e){e.hidden=(+e.dataset.i!==i);});g.querySelectorAll(".ws-sw-tab").forEach(function(e,k){e.classList.toggle("on",k===i);e.setAttribute("aria-selected",k===i);});var c=g.querySelector(".ws-sw-count b");if(c)c.textContent=i+1;g.dataset.cur=i;};window.swStep=function(id,d){var g=document.getElementById(id);if(g)swGo(id,(+(g.dataset.cur||0))+d);};}var g=document.getElementById("sw101"),x0=null,y0=null;if(!g)return;g.querySelector(".ws-sw-stage").addEventListener("touchstart",function(e){x0=e.touches[0].clientX;y0=e.touches[0].clientY;},{passive:true});g.querySelector(".ws-sw-stage").addEventListener("touchend",function(e){if(x0===null)return;var dx=e.changedTouches[0].clientX-x0,dy=e.changedTouches[0].clientY-y0;x0=null;if(Math.abs(dx)>60&&Math.abs(dx)>1.5*Math.abs(dy)){var t=e.target;if(t.closest&&t.closest("input,textarea,.ws-vcd-track,.ws-mb,.ws-gal,.pk-swipe"))return;swStep("sw101",dx<0?1:-1);g.scrollIntoView({block:"start",behavior:"smooth"});}},{passive:true});})();</script>
 <br>
 <section class="ws-do"><div class="ws-do-tag">직접 해 보는 곳</div><h2>✏ 활동 1 — 고령 사회의 새 일자리 기획</h2>
 <br>

diff --git a/worksheet-gen.py b/worksheet-gen.py
@@ -3,6 +3,7 @@
 정답 파일에서 답을 순서대로 추출하고, 개념편의 빈칸에 순서대로 매칭한다."""
 
 import re
+PICK_TIGHT_CSS = """/* 2026-10-26 사회 7-5 «좁게» — 그림 없는 짧은 카드. 데스크톱은 한 줄에 다 놓고, 폰은 «이름·값 | 버튼» 한 줄씩 */ .pk-grid.pk-tight { grid-template-columns: repeat(auto-fit, minmax(118px, 1fr)); gap: 8px; } .pk-tight .pk-card { padding: 8px 6px; } .pk-tight .pk-sit { min-height: 0; margin: 2px 0 7px; } .pk-tight .pk-b { padding: 5px 1px; word-break: keep-all; line-height: 1.25; font-size: .74em; } .pk-tight .pk-btns { gap: 3px; } @media (max-width: 640px) {   .pk-grid.pk-tight { grid-template-columns: 1fr; gap: 6px; }   .pk-tight .pk-card { display: grid; grid-template-columns: minmax(0, 1fr) minmax(0, 1.25fr); column-gap: 10px; align-items: center; text-align: left; padding: 7px 10px; }   .pk-tight .pk-name, .pk-tight .pk-sit { grid-column: 1; margin: 0; }   .pk-tight .pk-btns { grid-column: 2; grid-row: 1 / span 2; }   .pk-tight .pk-why { grid-column: 1 / -1; } }"""
 import math
 import sys
 import os
@@ -958,9 +959,13 @@ def build_html_from_blank(blank_file, answers, ox_answers, answer_file, teacher=
                 pick_opts = [x.strip() for x in _o.split('|') if x.strip()]
                 pick_mood = (pick_opts == ['웃음', '울음'])
             # 2026-10-06 메인·역사: «까닭펼침» — 다 고른 뒤 맞힌 카드까지 까닭을 모두 펼친다(«같은 시대» 카드처럼 까닭이 활동의 핵심일 때)
-            pick_open = pick_swipe = False
+            pick_open = pick_swipe = pick_tight = False
             # 2026-10-12 사회 7-3: «넘김» — 카드를 옆으로 넘긴다(천대현 «다섯 가지도 옆으로 넘기게»). 순서 무관.
+            # 2026-10-26 사회 7-5: «좁게» — 그림 없는 짧은 카드를 데스크톱 한 줄·폰은 한 나라 한 줄로(천대현 «학습지 내 비율을 너무 차지»).
+            #   opt-in이라 «좁게»를 안 쓴 차시 출력은 글자 하나까지 같다.
             while True:
+                if _h.startswith('좁게'):
+                    pick_tight = True; _h = _h[len('좁게'):].strip(); continue
                 if _h.startswith('까닭펼침'):
                     pick_open = True; _h = _h[len('까닭펼침'):].strip(); continue
                 if _h.startswith('넘김'):
@@ -1005,7 +1010,7 @@ def build_html_from_blank(blank_file, answers, ox_answers, answer_file, teacher=
                       f'<div class="pk-card{"" if img else " pk-noimg"}" data-i="{i}" data-ans="{ans}">'
                       f'{im}<div class="pk-name">{inline(nm)}</div>'
                       f'<div class="pk-sit">{inline(sit)}</div>'
-                      f'<div class="pk-btns{"" if len(pick_opts) < 3 else " pk-btns-col"}">{btns}</div>'
+                      f'<div class="pk-btns{"" if len(pick_opts) < 3 or pick_tight else " pk-btns-col"}">{btns}</div>'
                       f'<div class="pk-why" hidden>{inline(why)}</div></div>')
                 _swjs = (
                   'var g=w.querySelector(".pk-swipe");if(g){var pos=w.querySelector(".pk-pos");'
@@ -1020,11 +1025,13 @@ def build_html_from_blank(blank_file, answers, ox_answers, answer_file, teacher=
                   'x.classList.add("pk-flipping");setTimeout(function(){m.hidden=true;p.hidden=false;t.hidden=false;},230);setTimeout(function(){x.classList.remove("pk-flipping")},480);'
                   'x.addEventListener("click",function(e){e.stopPropagation();x.classList.add("pk-flipping");setTimeout(function(){var ph=!p.hidden;p.hidden=ph;m.hidden=!ph;t.querySelector("i").textContent=ph?"누르면 사진":"누르면 지도";},230);setTimeout(function(){x.classList.remove("pk-flipping")},480);});});'
                 )
+                if pick_tight:   # «좁게» CSS는 이 블록을 쓴 차시에만 싣는다 — 다른 차시 출력은 글자 하나까지 그대로
+                    html_parts.append('<style>' + PICK_TIGHT_CSS + '</style>')
                 html_parts.append(
                   f'<div class="ws-pick" id="{pid}">'
                   f'<div class="pk-head"><span>{inline(pick_q)}</span>'
                   f'<b class="pk-count">0 / {len(pick_rows)}</b></div>'
-                  f'<div class="pk-grid{" pk-gold" if pick_gold else ""}{" pk-swipe" if pick_swipe else ""}">{cards}</div>'
+                  f'<div class="pk-grid{" pk-gold" if pick_gold else ""}{" pk-swipe" if pick_swipe else ""}{" pk-tight" if pick_tight else ""}">{cards}</div>'
                   + ('<div class="pk-nav"><button type="button" class="pk-prev" aria-label="이전 카드">◀</button>'
                      f'<span class="pk-pos">1 / {len(pick_rows)}</span>'
                      '<button type="button" class="pk-next" aria-label="다음 카드">▶</button></div>' if pick_swipe else '')
